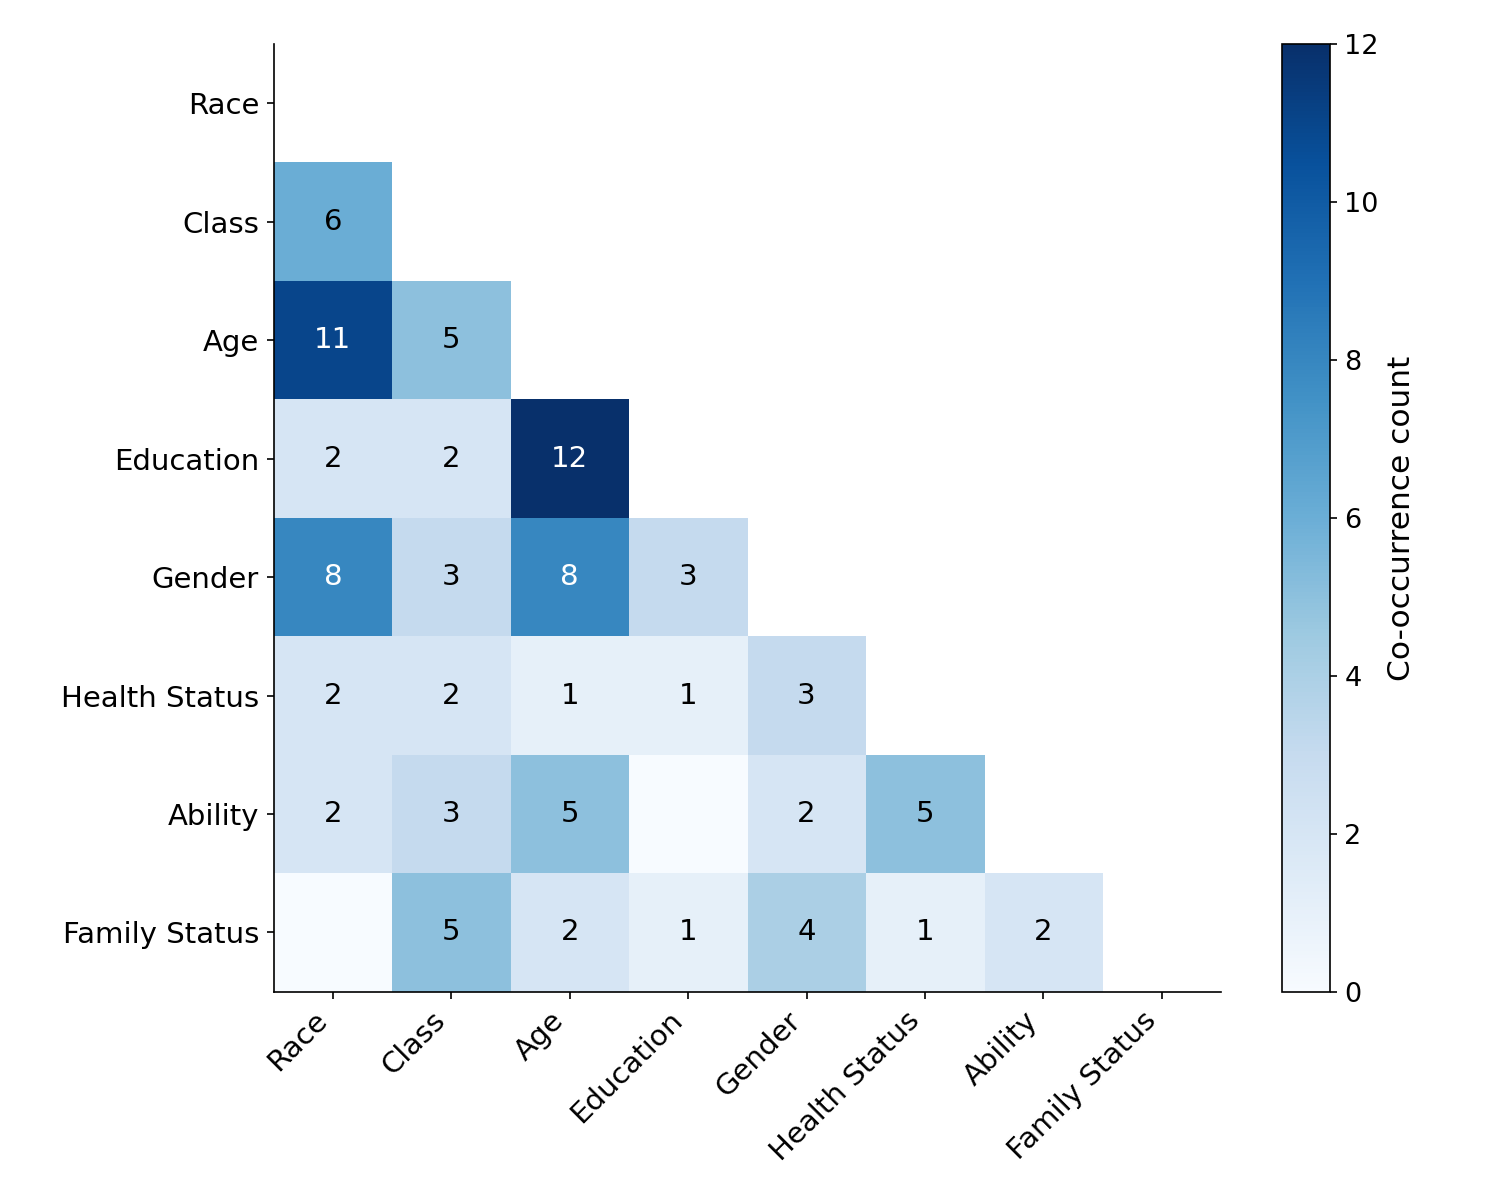
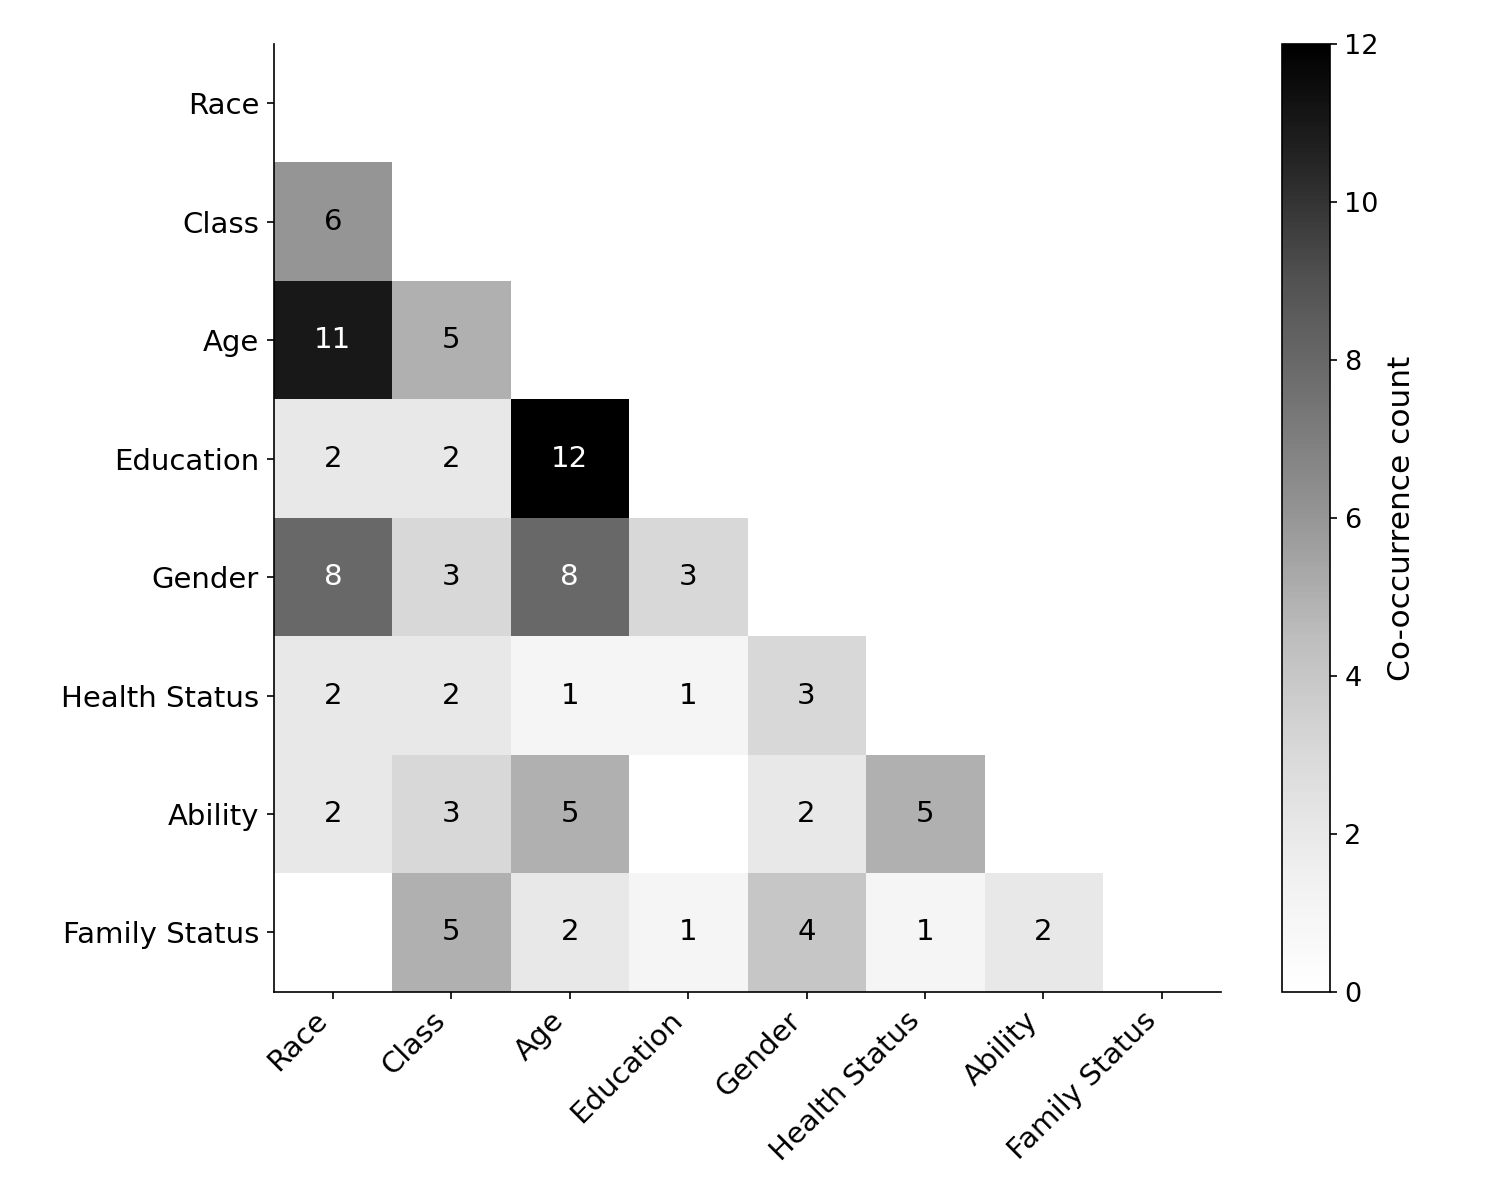
Adjusting graph 2

diff --git a/src/analysis/quick_analysis.py b/src/analysis/quick_analysis.py
@@ -127,7 +127,7 @@ mask = np.triu(np.ones_like(matrix, dtype=bool), k=0)
 matrix_masked = np.where(mask, np.nan, matrix.astype(float))
 
 fig, ax = plt.subplots(figsize=(10, 8))
-im = ax.imshow(matrix_masked, cmap="Blues")
+im = ax.imshow(matrix_masked, cmap="Greys")
 
 tick_labels = [c.replace("_", " ").title() for c in all_cats]
 ax.set_xticks(range(len(all_cats)))
